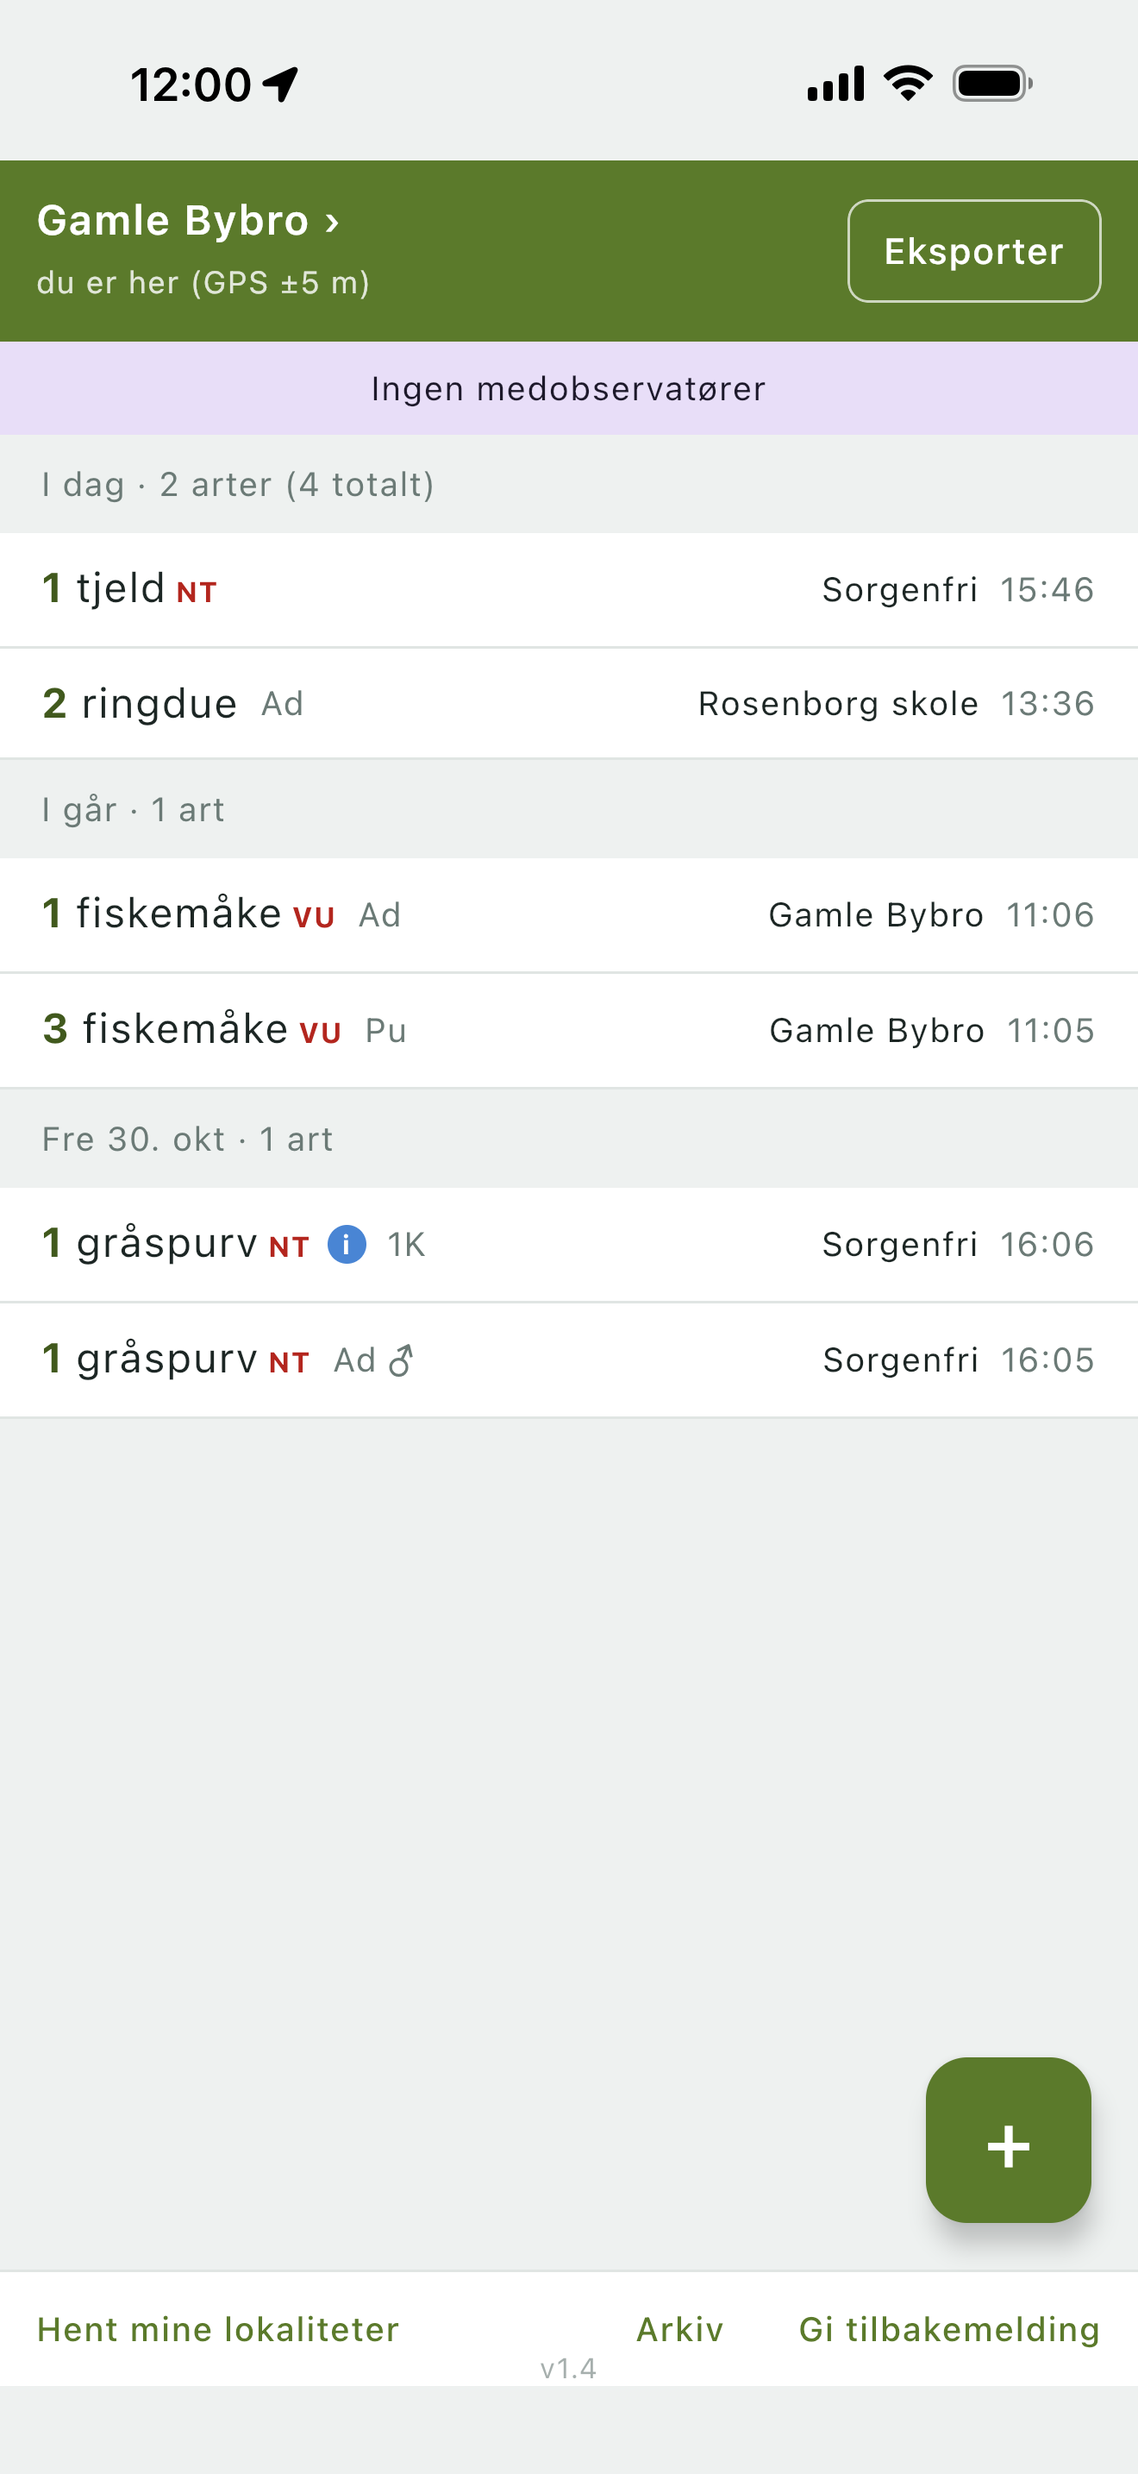
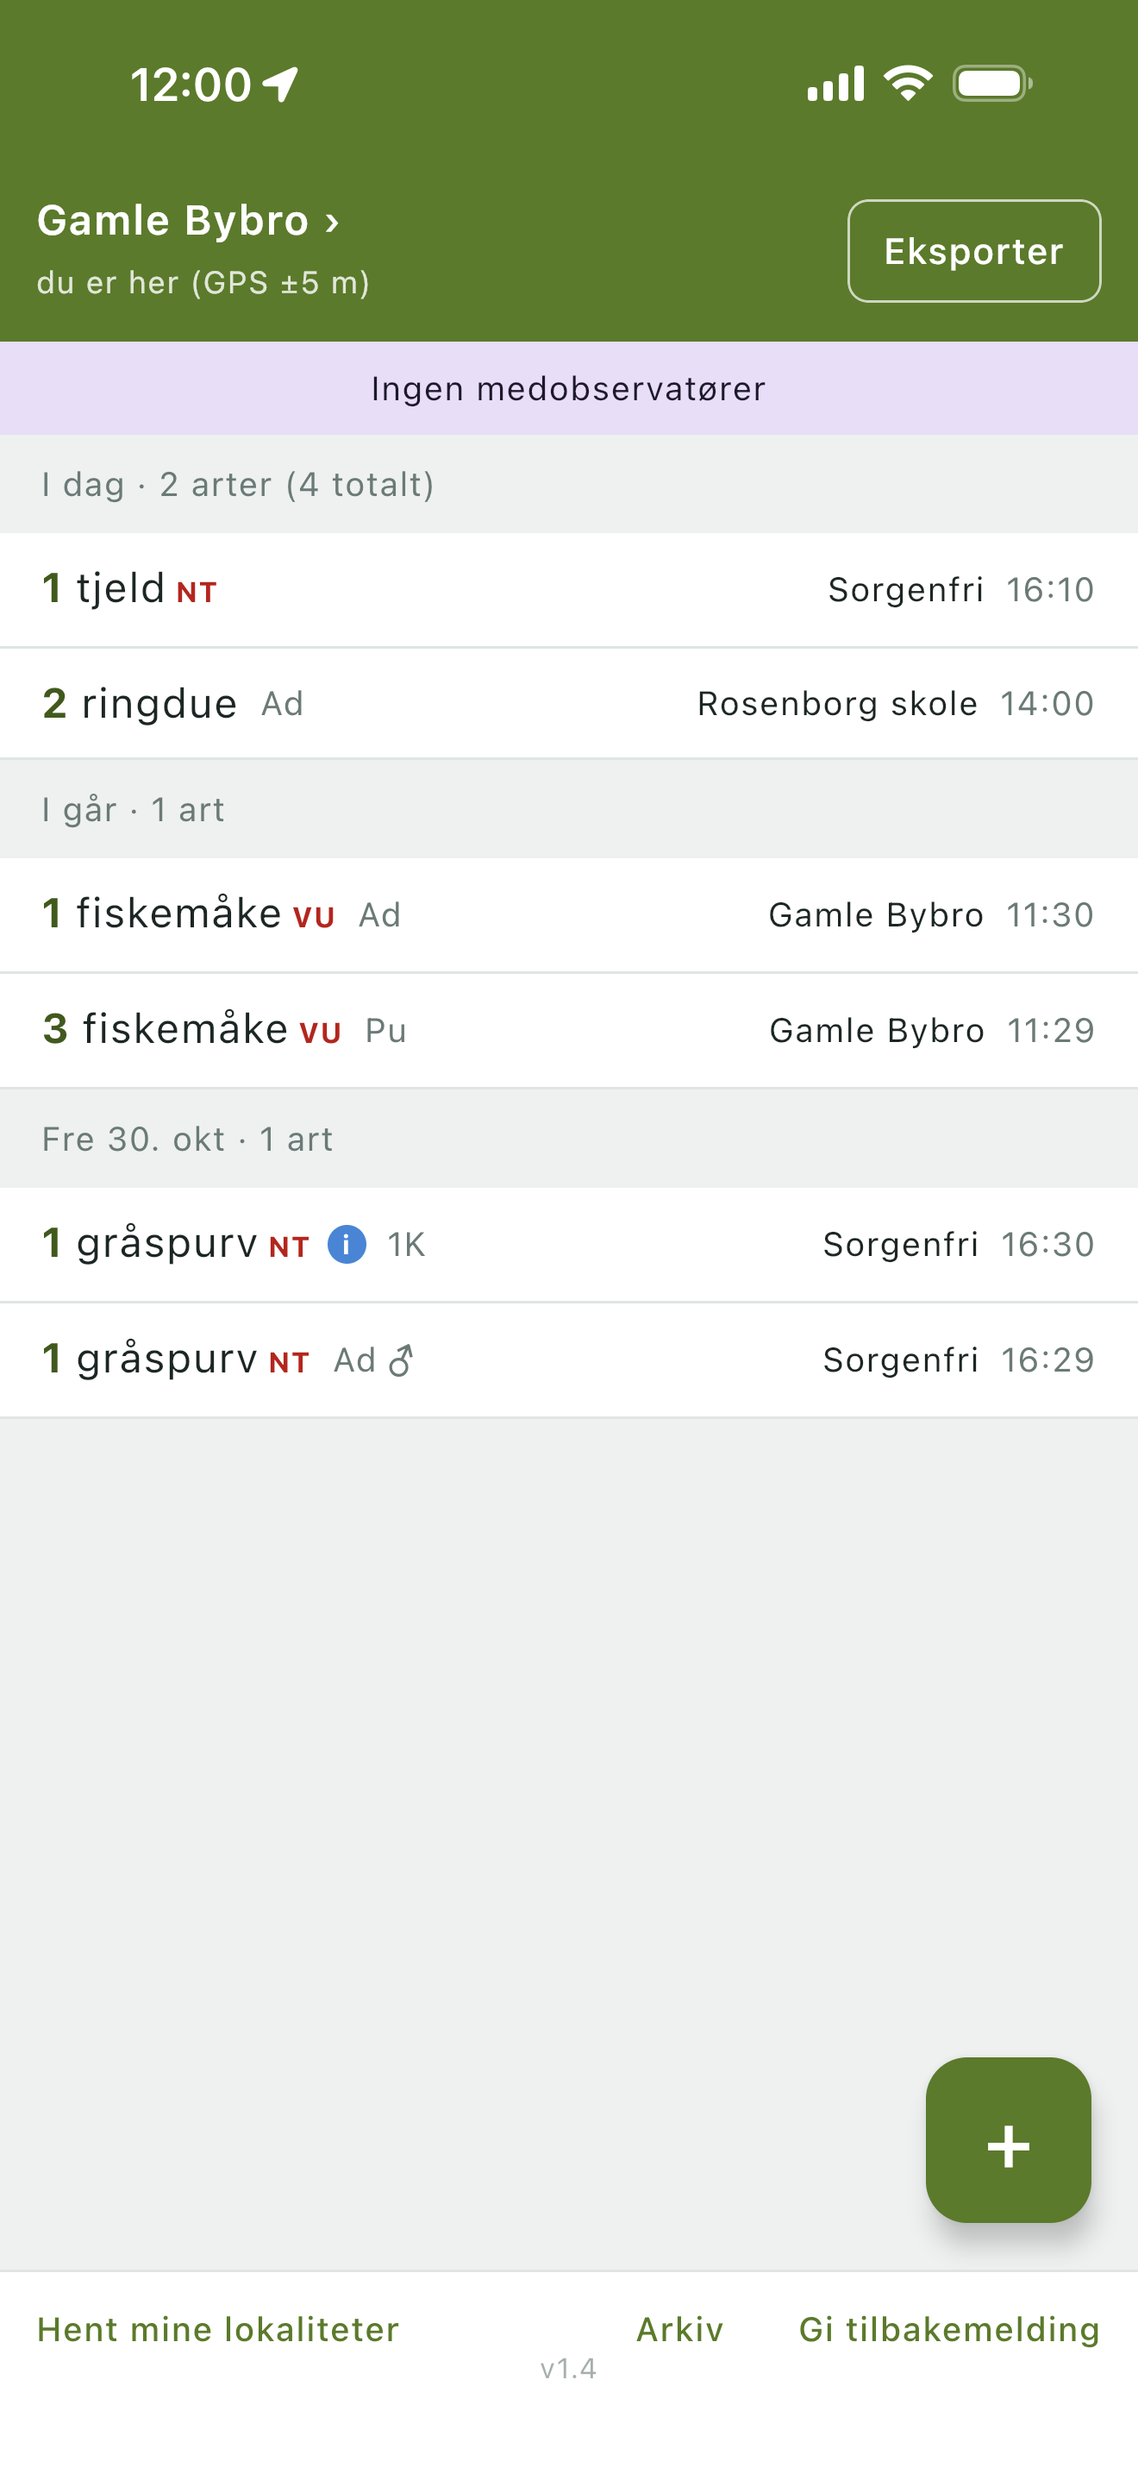
Let the header and bottom bars reach the screen's edges
On phones with a notch and a home indicator, the app padded the whole
screen clear of the system bars, so a grey strip showed above the green
header and below the footer and the editor's buttons; native apps paint
their bars right to the edge. The app now keeps only the sides and the
keyboard clear: a green band fills the status bar on every screen (all
but the species search start with a green header), with white icons on
both platforms, and each screen pads its own bottom edge so the footer,
the editor's bar and the iOS map can run down behind the home indicator.
The Android map keeps its padding, as osmdroid draws the OSM credit at
the map's bottom edge.

The App Store screenshots are recaptured with the new look.

diff --git a/ui/src/commonMain/kotlin/io/github/mortenfyhn/feltbok/Ui.kt b/ui/src/commonMain/kotlin/io/github/mortenfyhn/feltbok/Ui.kt
@@ -21,16 +21,21 @@ import androidx.compose.foundation.layout.PaddingValues
 import androidx.compose.foundation.layout.Row
 import androidx.compose.foundation.layout.RowScope
 import androidx.compose.foundation.layout.Spacer
+import androidx.compose.foundation.layout.WindowInsets
+import androidx.compose.foundation.layout.WindowInsetsSides
 import androidx.compose.foundation.layout.fillMaxSize
 import androidx.compose.foundation.layout.fillMaxWidth
 import androidx.compose.foundation.layout.height
 import androidx.compose.foundation.layout.heightIn
 import androidx.compose.foundation.layout.offset
+import androidx.compose.foundation.layout.only
 import androidx.compose.foundation.layout.padding
-import androidx.compose.foundation.layout.safeDrawingPadding
+import androidx.compose.foundation.layout.safeDrawing
 import androidx.compose.foundation.layout.size
 import androidx.compose.foundation.layout.width
 import androidx.compose.foundation.layout.widthIn
+import androidx.compose.foundation.layout.windowInsetsPadding
+import androidx.compose.foundation.layout.windowInsetsTopHeight
 import androidx.compose.foundation.lazy.LazyColumn
 import androidx.compose.foundation.lazy.LazyListScope
 import androidx.compose.foundation.lazy.LazyListState
@@ -239,7 +244,7 @@ fun ListScreen(vm: MainViewModel, listState: LazyListState) {
             // clean in the gap on release ("v0.7"), spilling over the buttons on a long dev build.
             // Tapping the version opens the About/credits dialog — the conventional home for the
             // #139 attribution, stashed where about-info is expected without new chrome.
-            Box(Modifier.fillMaxWidth().background(cs.surface), Alignment.Center) {
+            Box(Modifier.fillMaxWidth().background(cs.surface).bottomInsetPadding(), Alignment.Center) {
                 Row(Modifier.fillMaxWidth(), verticalAlignment = Alignment.CenterVertically) {
                     // First time it's an invitation; once you've synced some, it's a refresh.
                     // Sync isn't available in every country build (Country.syncEnabled).
@@ -833,7 +838,7 @@ fun SearchScreen(vm: MainViewModel) {
     val canAdd = query.isNotBlank() && results.none { s ->
         fold(vm.primaryName(s)) == fold(query) || vm.secondaryName(s)?.let { fold(it) == fold(query) } == true
     }
-    Column(Modifier.fillMaxSize()) {
+    Column(Modifier.fillMaxSize().bottomInsetPadding()) {
         Row(
             Modifier.fillMaxWidth().background(cs.surface).padding(start = 4.dp, end = 12.dp, top = 2.dp, bottom = 2.dp),
             verticalAlignment = Alignment.CenterVertically,
@@ -939,7 +944,7 @@ fun CoObserverScreen(vm: MainViewModel) {
     // just return. Typed text is never added on the way out - that skipped the search (an unlinked
     // name); free text goes in only via the "Legg til" row.
     fun done() = vm.closeCoObs()
-    Column(Modifier.fillMaxSize()) {
+    Column(Modifier.fillMaxSize().bottomInsetPadding()) {
         ScreenHeader(
             Strings.CoObs.title,
             onCancel = { done() },
@@ -1054,6 +1059,20 @@ private fun CoObsRow(name: String, user: AoUser?, selected: Boolean, onToggle: (
 
 // ============================ DETAIL ============================
 
+/** The green behind the status bar (or notch) at the top of the screen, so the headers reach the
+ *  screen's edge like a native app's. Every screen starts with a green header but the species
+ *  search, so one band in [App] serves them all, and slides between screens never change it. */
+@Composable
+internal fun StatusBarBand() {
+    Box(Modifier.fillMaxWidth().windowInsetsTopHeight(WindowInsets.safeDrawing).background(MaterialTheme.colorScheme.primary))
+}
+
+/** Keeps a screen's bottom edge clear of the home indicator or gesture bar. [App] only keeps the
+ *  sides and the keyboard clear, so a bottom bar can paint behind them: put this after its
+ *  background. Zero while the keyboard is up (App's imePadding already covers that). */
+@Composable
+internal fun Modifier.bottomInsetPadding() = windowInsetsPadding(WindowInsets.safeDrawing.only(WindowInsetsSides.Bottom))
+
 /** The screens' shared top bar. The back/dismiss action lives on the LEFT (not the right) so a
  *  thumb reaching the top-right corner - where it lands after typing, once the keyboard hides the
  *  Lagre button - can't leave the screen by accident (#59). Default leading control is "‹ Tilbake"
@@ -1101,7 +1120,7 @@ fun SettingsScreen(vm: MainViewModel) {
     val langs = listOf(Lang.NORSK, Lang.SVENSK, Lang.LATIN)
     val labels = langs.map { Strings.Settings.langLabel(it) }
     fun langFor(label: String) = langs.first { Strings.Settings.langLabel(it) == label }
-    Column(Modifier.fillMaxSize().background(cs.background)) {
+    Column(Modifier.fillMaxSize().background(cs.background).bottomInsetPadding()) {
         ScreenHeader(Strings.Settings.title, onCancel = { vm.closeSettings() })
         Column(Modifier.verticalScroll(rememberScrollState())) {
             DropdownRow(Strings.Settings.primaryHeader, Strings.Settings.langLabel(prefs.primary), labels, clearable = false) {
@@ -1144,7 +1163,7 @@ fun ArchiveScreen(vm: MainViewModel) {
     val haptic = LocalHapticFeedback.current
     // System Back leaves selection mode first (like the list), then the screen.
     BackHandler { if (selecting) vm.clearSelection() else vm.closeArchive() }
-    Column(Modifier.fillMaxSize()) {
+    Column(Modifier.fillMaxSize().bottomInsetPadding()) {
         Box {
             // As tall as the list's status strip, so the rows start where the list's did and the
             // selection bar drawn over it has room for its outlined button (a title-height bar
@@ -1399,7 +1418,7 @@ fun DetailScreen(vm: MainViewModel) {
         // isn't stacked directly under the thumb's path to Lagre, where it was easy to hit by
         // mistake (#96).
         Row(
-            Modifier.fillMaxWidth().background(cs.surface).padding(horizontal = 14.dp, vertical = 11.dp),
+            Modifier.fillMaxWidth().background(cs.surface).bottomInsetPadding().padding(horizontal = 14.dp, vertical = 11.dp),
             horizontalArrangement = Arrangement.spacedBy(10.dp),
         ) {
             if (vm.isEditing) {
@@ -1592,8 +1611,9 @@ private fun CommentField(label: String, value: String, onChange: (String) -> Uni
         Surface(Modifier.fillMaxSize(), color = cs.surface) {
             // Keeps the header's actions clear of the system bars and of the keyboard - the writing
             // area shrinks instead, like any notes app. On the Column, not the Surface, so the
-            // surface colour still paints behind the bars (same as the Scaffold in MainActivity).
-            Column(Modifier.safeDrawingPadding()) {
+            // surface colour still paints behind the bars; the header's green behind the status bar.
+            Column(Modifier.windowInsetsPadding(WindowInsets.safeDrawing.only(WindowInsetsSides.Horizontal + WindowInsetsSides.Bottom))) {
+                StatusBarBand()
                 // Back and Ferdig both just close: typing writes straight to the draft, so there's
                 // nothing to commit here and nothing a stray back press can lose (the draft itself
                 // isn't saved until Lagre on the detail screen). Same as the co-observer picker.
@@ -1765,7 +1785,7 @@ fun ExportScreen(vm: MainViewModel) {
     var copied by remember { mutableStateOf(false) }
     var confirmClear by remember { mutableStateOf(false) }
 
-    Column(Modifier.fillMaxSize().background(cs.background)) {
+    Column(Modifier.fillMaxSize().background(cs.background).bottomInsetPadding()) {
         ScreenHeader(Strings.Export.title, onCancel = { vm.closeExport() })
         Column(Modifier.weight(1f).verticalScroll(rememberScrollState()).padding(horizontal = 16.dp)) {
             Step(1, Strings.Export.step1) {

diff --git a/ui/src/commonMain/kotlin/io/github/mortenfyhn/feltbok/App.kt b/ui/src/commonMain/kotlin/io/github/mortenfyhn/feltbok/App.kt
@@ -1,7 +1,13 @@
 package io.github.mortenfyhn.feltbok
 
+import androidx.compose.foundation.layout.Column
+import androidx.compose.foundation.layout.WindowInsets
+import androidx.compose.foundation.layout.WindowInsetsSides
+import androidx.compose.foundation.layout.imePadding
+import androidx.compose.foundation.layout.only
 import androidx.compose.foundation.layout.padding
-import androidx.compose.foundation.layout.safeDrawingPadding
+import androidx.compose.foundation.layout.safeDrawing
+import androidx.compose.foundation.layout.windowInsetsPadding
 import androidx.compose.foundation.lazy.LazyListState
 import androidx.compose.foundation.lazy.rememberLazyListState
 import androidx.compose.material3.MaterialTheme
@@ -69,19 +75,23 @@ fun App(vm: MainViewModel, screens: @Composable (LazyListState) -> Unit = { Scre
             // editor and back (#146) - a LazyListState remembered inside ListScreen is discarded when
             // that screen leaves composition.
             val listState = rememberLazyListState()
-            Scaffold(
-                // Keeps the content clear of the system bars, cutout and keyboard now that the
-                // window is edge-to-edge. Sits on the Scaffold, not the Surface, so the Surface's
-                // background colour still paints behind the bars instead of leaving them bare.
-                modifier = Modifier.safeDrawingPadding(),
-                // Lifted above the list's footer bar (Material floats snackbars above persistent
-                // bottom chrome), so the undo toast can't cover the Arkiv/feedback links - which it
-                // otherwise does exactly when you've just archived and might want the archive. The
-                // footer is a single fixed 13sp text row, so a constant clears it.
-                snackbarHost = { SnackbarHost(snackbar, Modifier.padding(bottom = 40.dp)) },
-                containerColor = Color.Transparent,
-            ) { _ ->
-                screens(listState)
+            Column {
+                StatusBarBand()
+                Scaffold(
+                    // The window is edge-to-edge. Only the sides and the keyboard are kept clear here:
+                    // the band above fills the status bar, and each screen pads its own bottom edge
+                    // (bottomInsetPadding) so its bottom bar can paint behind the home indicator.
+                    modifier = Modifier.weight(1f)
+                        .windowInsetsPadding(WindowInsets.safeDrawing.only(WindowInsetsSides.Horizontal)).imePadding(),
+                    // Lifted above the list's footer bar (Material floats snackbars above persistent
+                    // bottom chrome), so the undo toast can't cover the Arkiv/feedback links - which it
+                    // otherwise does exactly when you've just archived and might want the archive. The
+                    // footer is a single fixed 13sp text row, so a constant clears it.
+                    snackbarHost = { SnackbarHost(snackbar, Modifier.padding(bottom = 40.dp)) },
+                    containerColor = Color.Transparent,
+                ) { _ ->
+                    screens(listState)
+                }
             }
         }
     }

diff --git a/ui/src/iosMain/kotlin/io/github/mortenfyhn/feltbok/MapPicker.kt b/ui/src/iosMain/kotlin/io/github/mortenfyhn/feltbok/MapPicker.kt
@@ -326,10 +326,10 @@ actual fun LocalityScreen(vm: MainViewModel) {
             }
             // osmdroid's CopyrightOverlay: the OSM tile policy requires the credit.
             Text("© OpenStreetMap-bidragsytere", fontSize = 10.sp, color = Color(0xFF444444),
-                modifier = Modifier.align(Alignment.BottomStart).background(Color(0x99FFFFFF)).padding(horizontal = 4.dp, vertical = 1.dp))
+                modifier = Modifier.align(Alignment.BottomStart).bottomInsetPadding().background(Color(0x99FFFFFF)).padding(horizontal = 4.dp, vertical = 1.dp))
             // One-handed zoom + re-centre: thumb-reachable buttons (the new-spot panel covers them).
             if (!newMode) Column(
-                Modifier.align(Alignment.BottomEnd).padding(16.dp),
+                Modifier.align(Alignment.BottomEnd).bottomInsetPadding().padding(16.dp),
                 verticalArrangement = Arrangement.spacedBy(12.dp),
             ) {
                 if (vm.fix != null && !centered) RecenterButton {
@@ -339,11 +339,13 @@ actual fun LocalityScreen(vm: MainViewModel) {
                 ZoomButton("−") { scope.launch { state.animateCamera(CameraUpdate(zoom = state.cameraPosition.zoom - 1)) } }
             }
             // New-spot panel OVERLAYS the map (so the map doesn't resize/jump); the overlay
-            // draws the crosshair above it, at the centre of the visible map.
+            // draws the crosshair above it, at the centre of the visible map. The map runs down
+            // behind the home indicator, so the panel's white does too, and its height counts all
+            // of it.
             if (newMode) Row(
                 Modifier.align(Alignment.BottomCenter).fillMaxWidth()
-                    .background(Color.White).padding(14.dp)
-                    .onSizeChanged { sheetH = it.height },
+                    .onSizeChanged { sheetH = it.height }
+                    .background(Color.White).bottomInsetPadding().padding(14.dp),
                 horizontalArrangement = Arrangement.spacedBy(14.dp),
                 verticalAlignment = Alignment.CenterVertically,
             ) {

diff --git a/app/src/main/java/io/github/mortenfyhn/feltbok/MainActivity.kt b/app/src/main/java/io/github/mortenfyhn/feltbok/MainActivity.kt
@@ -25,11 +25,11 @@ class MainActivity : ComponentActivity() {
     override fun onCreate(savedInstanceState: Bundle?) {
         // From targetSdk 35 the system draws the app behind the status and navigation bars and
         // there's no opting out, so declare it rather than inherit it half-configured: transparent
-        // bars, and `light` styles (= dark icons) because AppTheme is light-only and would
-        // otherwise get white icons on a near-white background. The Scaffold below re-insets the
-        // content, so the layout still looks like it did before edge-to-edge.
+        // bars. The status bar sits on the app's green band (StatusBarBand), so `dark` (= white
+        // icons); the navigation bar on the light screens, so `light` (= dark icons), since
+        // AppTheme is light-only. The screens pad themselves clear of both.
         enableEdgeToEdge(
-            statusBarStyle = SystemBarStyle.light(TRANSPARENT, TRANSPARENT),
+            statusBarStyle = SystemBarStyle.dark(TRANSPARENT),
             navigationBarStyle = SystemBarStyle.light(TRANSPARENT, TRANSPARENT),
         )
         super.onCreate(savedInstanceState)

diff --git a/ui/src/androidMain/kotlin/io/github/mortenfyhn/feltbok/MapPicker.kt b/ui/src/androidMain/kotlin/io/github/mortenfyhn/feltbok/MapPicker.kt
@@ -181,7 +181,8 @@ actual fun LocalityScreen(vm: MainViewModel) {
     val back = { if (newMode) newMode = false else vm.leaveLocalityPicker() }
     BackHandler { back() }
 
-    Column(Modifier.fillMaxSize()) {
+    // Clear of the gesture bar as a whole: osmdroid draws the map's OSM credit at its bottom edge.
+    Column(Modifier.fillMaxSize().bottomInsetPadding()) {
         ScreenHeader(
             title = if (newMode) Strings.Picker.titleNew else Strings.Picker.titlePick,
             onCancel = back,

diff --git a/ui/src/commonMain/kotlin/io/github/mortenfyhn/feltbok/SyncScreen.kt b/ui/src/commonMain/kotlin/io/github/mortenfyhn/feltbok/SyncScreen.kt
@@ -120,7 +120,7 @@ fun SyncScreen(vm: MainViewModel) {
     )
     LaunchedEffect(Unit) { web.load(Country.syncProbeUrl) }
 
-    Column(Modifier.fillMaxSize()) {
+    Column(Modifier.fillMaxSize().bottomInsetPadding()) {
         ScreenHeader(
             when {
                 stage == Stage.LOGIN -> Strings.Sync.login

diff --git a/CHANGELOG.md b/CHANGELOG.md
@@ -5,6 +5,7 @@
 ## Neste utgivelse
 
 - Den svenske betaversjonen (Fältbok) er lagt ned.
+- Den grønne toppen og bunnlinja går helt ut til kanten av skjermen.
 
 ## v1.4 (2. november 2026)
 
